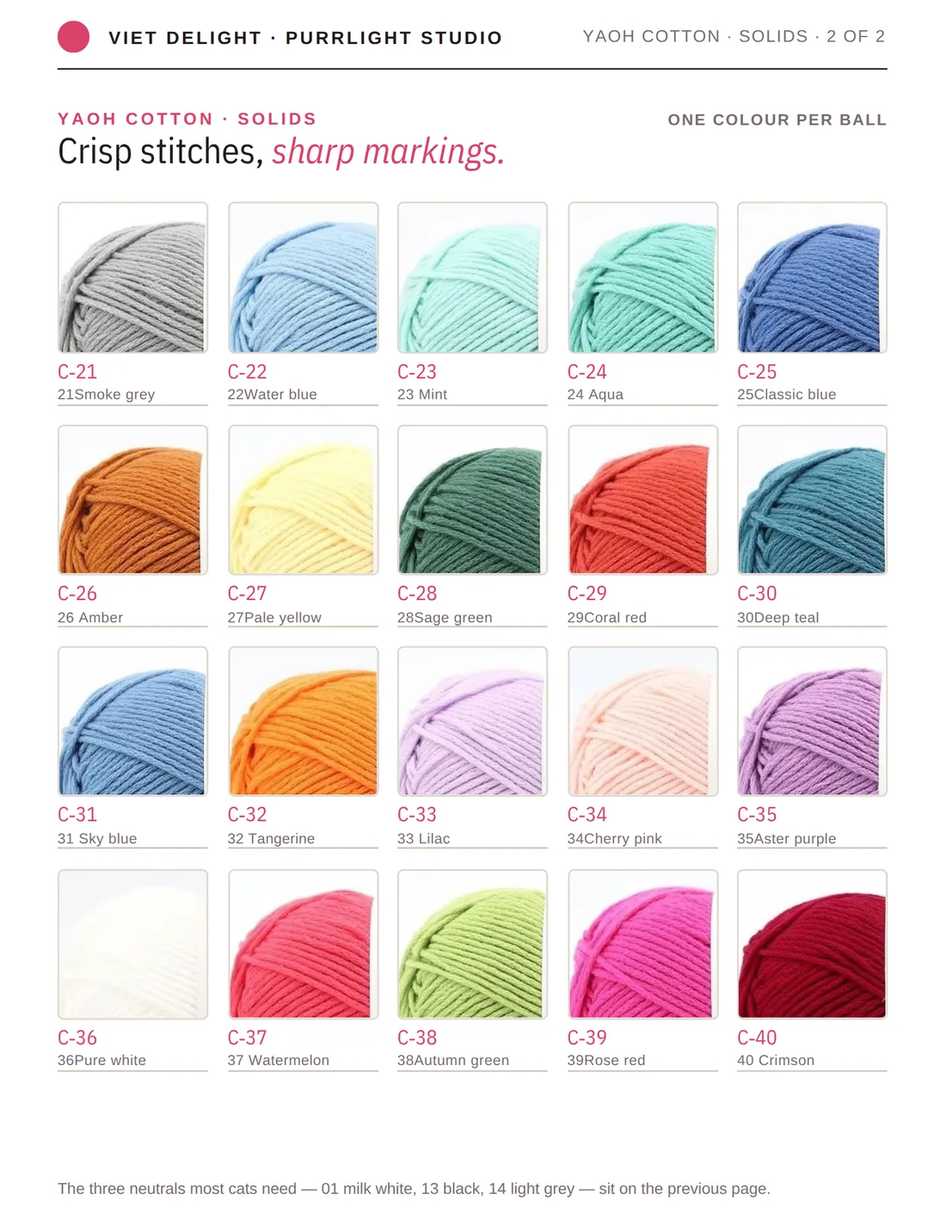
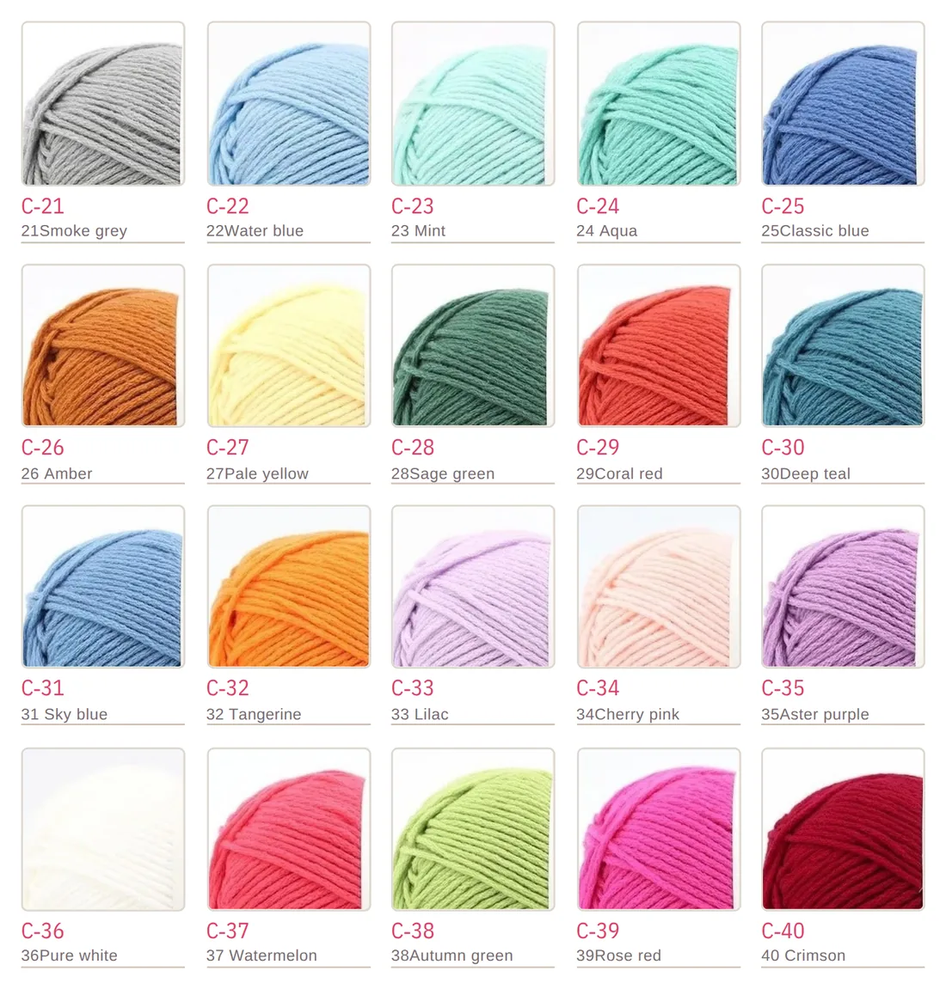
Custom Orders — sửa rà soát video + nội dung: LCP, độ trôi, xoay máy, link giữa trang, iPhone; trang len sạch; giao hàng theo mùa
- Video: khung nằm trọn trong ảnh (ảnh vẫn là LCP), nhận transform trôi ngay, đổi bản rộng khi xoay ngang,
  chỉ tạo khi ảnh đầu trang hiện (≥50%), gọi play() thẳng (iOS), mờ vào khi có khung thật
- Trang len: cắt chỉ còn lưới màu (bỏ COLOURS/overleaf/chữ lỗi/dòng hội chợ/"Baby pink"/ô trống) + 104 mã và tên dạng chữ
- Giao 2–3 tuần: theo công tắc mùa; tạm bỏ khỏi mục Giáng sinh (chờ Elise chốt hạn đặt)
- Chuông lắc khi chính chuông hiện đủ; bóng xanh = yếm sage của Merlin (#93A898)
- Tài liệu: câu hỏi cho Elise (hạn đặt, giao quanh năm?, FTC, tên V-03)

Claude-Session: https://claude.ai/code/session_01PLYG5TiggYTJU6oqvA7Biv

diff --git a/website/custom-orders/custom-orders.js b/website/custom-orders/custom-orders.js
@@ -671,7 +671,8 @@
       balanceRow.appendChild(el("span", { text: "Balance after you approve the photo" })); balanceRow.appendChild(el("span", { "class": "amt", text: db[1] }));
       if (fromUser) g.goneNote = "";
       var shipping = !est.digitalOnly && (v.getit === "ship" || v.getit === "out" || !GET_IT[v.getit]);
-      noteRow.textContent = [est.note, est.digitalOnly ? "" : (GET_IT[v.getit] || GET_IT.ship).short, shipping && !est.readyMade ? DELIVERY_NOTE : ""].filter(Boolean).join(" · ") + (g.goneNote ? " " + g.goneNote : "");
+      /* SEASONAL Christmas 2026: Elise gave the 2–3 weeks as the year-end holiday delay */
+      noteRow.textContent = [est.note, est.digitalOnly ? "" : (GET_IT[v.getit] || GET_IT.ship).short, shipping && !est.readyMade && christmas ? DELIVERY_NOTE : ""].filter(Boolean).join(" · ") + (g.goneNote ? " " + g.goneNote : "");
       copied.textContent = "";
       if (fromUser) store(storeKey, { v: v, swaps: g.swaps, u: 1, auto: g.auto || 0 });   /* a plain page view remembers nothing */
       if (g === current) setBarThumb(g);
@@ -1310,14 +1311,18 @@
     if ("ResizeObserver" in window) new ResizeObserver(fit).observe(band); else window.addEventListener("resize", fit);
     /* the bulbs run while the band shows; the snow while the canvas itself shows (on phones it sits well below the
        band's top) */
-    /* Merlin's bell swings once (about 1.4 s) the first time the band comes into view — not when paused, not on a
-       data-saver connection (Elise 16/10) */
-    var bellHang = band.querySelector(".xmas-hang"), rang = false, saver = navigator.connection && navigator.connection.saveData;
-    new IntersectionObserver(function (es) {
-      es.forEach(function (e) { bandOn = e.isIntersecting; });
-      if (bandOn && !rang && bellHang && !paused && !saver) { rang = true; bellHang.classList.add("ring"); }
-      snowing();
-    }).observe(band);
+    new IntersectionObserver(function (es) { es.forEach(function (e) { bandOn = e.isIntersecting; }); snowing(); }).observe(band);
+    /* Merlin's bell swings once (about 1.4 s) the first time the bell itself is fully in view — not when paused, not on
+       a data-saver connection (Elise 16/10) */
+    var bellHang = band.querySelector(".xmas-hang"), bellImg = bellHang && bellHang.querySelector(".xmas-bell"), saver = navigator.connection && navigator.connection.saveData;
+    if (bellImg && !saver) {
+      var bellSeen = new IntersectionObserver(function (es) {
+        es.forEach(function (e) {
+          if (e.isIntersecting && e.intersectionRatio >= 0.99 && !paused) { bellHang.classList.add("ring"); bellSeen.disconnect(); }
+        });
+      }, { threshold: 1 });
+      bellSeen.observe(bellImg);
+    }
     new IntersectionObserver(function (es) { es.forEach(function (e) { onScreen = e.isIntersecting; }); snowing(); }).observe(snow);
     document.addEventListener("visibilitychange", snowing);
     onStill(snowing);   /* reduced motion turned on mid-visit: the snow stops (the CSS hides the canvas and the button) */
@@ -1334,57 +1339,70 @@
   /* WebM (VP9) where it plays, else MP4 (H.264): between them every current browser */
   var heroType = !probe.canPlayType ? "" : probe.canPlayType('video/webm; codecs="vp9"') ? ".webm" : probe.canPlayType('video/mp4; codecs="avc1.640028"') ? ".mp4" : "";
   if (christmas && heroImg && heroBox && heroType && !calm && !(navigator.connection && navigator.connection.saveData) && "IntersectionObserver" in window) {
-    var heroWide = window.matchMedia("(min-width: 600px)"), heroOn = false, heroStopped = false, heroVideo = null, heroBtn = null;
+    var heroWide = window.matchMedia("(min-width: 600px)"), heroBg = window.matchMedia("(min-width: 900px)");   /* wide cut from 600px; the photo is a background (absolute) from 900px */
+    var heroOn = false, heroReady = false, heroStopped = false, heroVideo = null, heroBtn = null;
+    var heroFile = function () { return "../assets/video/" + (heroWide.matches ? "hero-merlin-960" : "hero-merlin-phone-640") + heroType; };
+    /* the video sits exactly on the photo's box — inside it, never a pixel larger (so the photo stays the page's
+       largest paint), and with the photo's own drift transform */
     var heroFit = function () {
       if (!heroVideo) return;
-      var b = heroBox.getBoundingClientRect(), r = (wideEnough() ? heroPic : heroImg).getBoundingClientRect();
-      heroVideo.style.left = Math.round(r.left - b.left) + "px"; heroVideo.style.top = Math.round(r.top - b.top) + "px";
-      heroVideo.style.width = Math.round(r.width) + "px"; heroVideo.style.height = Math.round(r.height) + "px";
+      var b = heroBox.getBoundingClientRect(), r = (heroBg.matches ? heroPic : heroImg).getBoundingClientRect();
+      var L = Math.ceil(r.left - b.left), T = Math.ceil(r.top - b.top);
+      heroVideo.style.left = L + "px"; heroVideo.style.top = T + "px";
+      heroVideo.style.width = Math.max(0, Math.floor(r.right - b.left) - L) + "px"; heroVideo.style.height = Math.max(0, Math.floor(r.bottom - b.top) - T) + "px";
+      heroVideo.style.transform = heroImg.style.transform;
     };
-    var wideEnough = function () { return window.matchMedia("(min-width: 900px)").matches; };   /* the photo is a background (absolute) from 900px */
     var heroLabel = function () {
       var playing = heroVideo && !heroVideo.paused && !heroVideo.ended;
       heroBtn.textContent = playing ? "Pause video" : "Play video";
       heroBtn.className = "hero-play" + (playing ? "" : " is-stopped");
     };
     var heroShow = function (on) { heroVideo.className = "hero-video" + (on ? " on" : ""); };
+    var heroPlay = function () {   /* play() buffers by itself (iOS waits for it before loading); a refusal leaves the photo and the button */
+      var p = heroVideo.play();
+      if (p && p.catch) p.catch(function () { heroShow(false); heroLabel(); });
+    };
     var heroStart = function () {
       heroVideo = document.createElement("video");
       heroVideo.className = "hero-video";
       heroVideo.muted = true; heroVideo.defaultMuted = true; heroVideo.setAttribute("muted", "");
       heroVideo.setAttribute("playsinline", ""); heroVideo.setAttribute("aria-hidden", "true"); heroVideo.setAttribute("tabindex", "-1");
       heroVideo.preload = "auto";
-      heroVideo.src = "../assets/video/" + (heroWide.matches ? "hero-merlin-960" : "hero-merlin-phone-640") + heroType;
+      heroVideo.src = heroFile();
       heroPic.parentNode.insertBefore(heroVideo, heroPic.nextSibling);
       heroImg.follower = heroVideo;
       heroBtn = document.createElement("button");
       heroBtn.type = "button";
       heroBox.appendChild(heroBtn);
       heroFit();
-      heroVideo.addEventListener("canplaythrough", function () { if (heroOn && !heroStopped && heroVideo.paused && !heroVideo.ended && heroVideo.currentTime === 0) heroPlay(); });
+      heroVideo.addEventListener("playing", function () { heroShow(true); heroLabel(); });   /* fade in on a real frame */
       heroVideo.addEventListener("ended", function () { heroShow(false); heroLabel(); });
       heroVideo.addEventListener("pause", heroLabel);
-      heroVideo.addEventListener("play", heroLabel);
       heroBtn.addEventListener("click", function () {
         if (heroVideo.paused || heroVideo.ended) { heroStopped = false; if (heroVideo.ended) heroVideo.currentTime = 0; heroPlay(); }
         else { heroStopped = true; heroVideo.pause(); }
       });
       heroLabel();
       if ("ResizeObserver" in window) new ResizeObserver(heroFit).observe(heroBox); else window.addEventListener("resize", heroFit);
+      /* a phone turned sideways (or a window widened past 600px) gets the wide cut; the 4:3 cut would show Merlin cropped */
+      var heroSwap = function () {
+        if (!heroWide.matches || heroVideo.src.indexOf("phone-640") < 0) return;
+        heroStopped = true; heroVideo.pause(); heroShow(false);
+        heroVideo.src = heroFile(); heroVideo.load(); heroLabel();
+      };
+      if (heroWide.addEventListener) heroWide.addEventListener("change", heroSwap); else if (heroWide.addListener) heroWide.addListener(heroSwap);
       onStill(function () { if (still.matches) { heroStopped = true; heroVideo.pause(); heroShow(false); } });
+      if (heroOn) heroPlay();
     };
-    var heroPlay = function () {
-      heroShow(true);
-      var p = heroVideo.play();
-      if (p && p.catch) p.catch(function () { heroShow(false); heroLabel(); });   /* autoplay refused: the photo stays, the button can start it */
-    };
+    /* the photo itself is watched (half of it in view), not the whole hero: on a landscape phone the words fill the
+       first screen and the photo is below them */
     new IntersectionObserver(function (es) {
       es.forEach(function (e) { heroOn = e.isIntersecting; });
-      if (!heroVideo) return;
-      if (!heroOn && !heroVideo.paused) heroVideo.pause();                       /* scrolled away: hold */
-      else if (heroOn && heroVideo.paused && !heroVideo.ended && !heroStopped && heroVideo.currentTime > 0) heroPlay();   /* back: carry on */
-    }, { threshold: 0.25 }).observe(heroBox);
-    var heroLater = function () { setTimeout(function () { if (!heroVideo) heroStart(); }, 600); };
+      if (!heroVideo) { if (heroReady && heroOn) heroStart(); return; }   /* first view after load, wherever it happens */
+      if (!heroOn && !heroVideo.paused) heroVideo.pause();                                   /* scrolled away: hold */
+      else if (heroOn && heroVideo.paused && !heroVideo.ended && !heroStopped) heroPlay();   /* back (or first time): play */
+    }, { threshold: 0.5 }).observe(heroImg);
+    var heroLater = function () { setTimeout(function () { heroReady = true; if (!heroVideo && heroOn) heroStart(); }, 600); };
     if (document.readyState === "complete") heroLater(); else window.addEventListener("load", heroLater);
   }
 })();

diff --git a/website/custom-orders/index.html b/website/custom-orders/index.html
@@ -197,13 +197,22 @@
                 <summary>See every yarn color</summary>
                 <p class="step-hint">Find the shade that looks like your pet and write its code (for example C-25 or V-04) in your order. Printed colors can't match yarn exactly.</p>
                 <ul class="yarn-pages" tabindex="0" aria-label="Yarn color book pages">
-                  <li><a href="../assets/img/custom/yarn-book-cotton-1.webp" target="_blank" rel="noopener"><img src="../assets/img/custom/yarn-book-cotton-1.webp" alt="Cotton yarn color book page: solid shades C-01 to C-20, each with its code and name" width="1100" height="1432" loading="lazy" decoding="async"></a><span class="yarn-cap">Cotton · solids 1 of 2</span></li>
-                  <li><a href="../assets/img/custom/yarn-book-cotton-2.webp" target="_blank" rel="noopener"><img src="../assets/img/custom/yarn-book-cotton-2.webp" alt="Cotton yarn color book page: solid shades C-21 to C-40, each with its code and name" width="1100" height="1432" loading="lazy" decoding="async"></a><span class="yarn-cap">Cotton · solids 2 of 2</span></li>
-                  <li><a href="../assets/img/custom/yarn-book-cotton-mixes.webp" target="_blank" rel="noopener"><img src="../assets/img/custom/yarn-book-cotton-mixes.webp" alt="Cotton yarn color book page: multi-shade mixes M-01 to M-21, each with its code and name" width="1100" height="1432" loading="lazy" decoding="async"></a><span class="yarn-cap">Cotton · mixes</span></li>
-                  <li><a href="../assets/img/custom/yarn-book-velvet-1.webp" target="_blank" rel="noopener"><img src="../assets/img/custom/yarn-book-velvet-1.webp" alt="Velvet yarn color book page: shades V-01 to V-20, each with its code and name" width="1100" height="1432" loading="lazy" decoding="async"></a><span class="yarn-cap">Velvet 1 of 2</span></li>
-                  <li><a href="../assets/img/custom/yarn-book-velvet-2.webp" target="_blank" rel="noopener"><img src="../assets/img/custom/yarn-book-velvet-2.webp" alt="Velvet yarn color book page: shades V-21 to V-39, each with its code and name" width="1100" height="1432" loading="lazy" decoding="async"></a><span class="yarn-cap">Velvet 2 of 2</span></li>
-                  <li><a href="../assets/img/custom/yarn-book-fluffy.webp" target="_blank" rel="noopener"><img src="../assets/img/custom/yarn-book-fluffy.webp" alt="Fluffy rabbit-fur yarn color book page: four shades R-01 to R-04 — pastel yellow, silver grey, cream white, taupe" width="1100" height="1432" loading="lazy" decoding="async"></a><span class="yarn-cap">Fluffy</span></li>
+                  <li><a href="../assets/img/custom/yarn-book-cotton-1.webp" target="_blank" rel="noopener"><img src="../assets/img/custom/yarn-book-cotton-1.webp" alt="Yarn color book page: Cotton solid colors C-01 to C-20, each swatch with its code and name (listed as text below)" width="1100" height="1151" loading="lazy" decoding="async"></a><span class="yarn-cap">Cotton · solids 1 of 2</span></li>
+                  <li><a href="../assets/img/custom/yarn-book-cotton-2.webp" target="_blank" rel="noopener"><img src="../assets/img/custom/yarn-book-cotton-2.webp" alt="Yarn color book page: Cotton solid colors C-21 to C-40, each swatch with its code and name (listed as text below)" width="1100" height="1151" loading="lazy" decoding="async"></a><span class="yarn-cap">Cotton · solids 2 of 2</span></li>
+                  <li><a href="../assets/img/custom/yarn-book-cotton-mixes.webp" target="_blank" rel="noopener"><img src="../assets/img/custom/yarn-book-cotton-mixes.webp" alt="Yarn color book page: Cotton multi-shade mixes M-01 to M-21, each swatch with its code and name (listed as text below)" width="1100" height="1038" loading="lazy" decoding="async"></a><span class="yarn-cap">Cotton · mixes</span></li>
+                  <li><a href="../assets/img/custom/yarn-book-velvet-1.webp" target="_blank" rel="noopener"><img src="../assets/img/custom/yarn-book-velvet-1.webp" alt="Yarn color book page: Velvet colors V-01 to V-20, each swatch with its code and name (listed as text below)" width="1100" height="1151" loading="lazy" decoding="async"></a><span class="yarn-cap">Velvet 1 of 2</span></li>
+                  <li><a href="../assets/img/custom/yarn-book-velvet-2.webp" target="_blank" rel="noopener"><img src="../assets/img/custom/yarn-book-velvet-2.webp" alt="Yarn color book page: Velvet colors V-21 to V-39, each swatch with its code and name (listed as text below)" width="1100" height="1173" loading="lazy" decoding="async"></a><span class="yarn-cap">Velvet 2 of 2</span></li>
+                  <li><a href="../assets/img/custom/yarn-book-fluffy.webp" target="_blank" rel="noopener"><img src="../assets/img/custom/yarn-book-fluffy.webp" alt="Yarn color book page: Fluffy colors R-01 to R-04, each swatch with its code and name (listed as text below)" width="1100" height="1087" loading="lazy" decoding="async"></a><span class="yarn-cap">Fluffy</span></li>
                 </ul>
+                <details class="yarn-names">
+                  <summary>Codes and names as text</summary>
+                  <p><strong>Cotton · solids 1 of 2:</strong> C-01 Milk white · C-02 Pale pink · C-03 Dusty pink · C-04 True red · C-05 Roman red · C-06 Autumn gold · C-07 Pea green · C-08 Camel beige · C-09 Dark coffee · C-10 Warm grey · C-11 Charcoal · C-12 Navy · C-13 Black · C-14 Light grey · C-15 Egg yolk · C-16 Mulberry · C-17 Ice blue · C-18 Moss green · C-19 Orange red · C-20 Denim blue</p>
+                  <p><strong>Cotton · solids 2 of 2:</strong> C-21 Smoke grey · C-22 Water blue · C-23 Mint · C-24 Aqua · C-25 Classic blue · C-26 Amber · C-27 Pale yellow · C-28 Sage green · C-29 Coral red · C-30 Deep teal · C-31 Sky blue · C-32 Tangerine · C-33 Lilac · C-34 Cherry pink · C-35 Aster purple · C-36 Pure white · C-37 Watermelon · C-38 Autumn green · C-39 Rose red · C-40 Crimson</p>
+                  <p><strong>Cotton · mixes:</strong> M-01 Mint mix · M-02 Butter yellow mix · M-03 Lavender mix · M-04 Coral pink mix · M-05 Plum mix · M-06 Candy pastel · M-07 Meadow green · M-08 Macaron rainbow · M-09 Blue enamel · M-10 Macaron red · M-11 Starry blue · M-12 Country green · M-13 Aged wine · M-14 Country pink · M-15 Dust grey · M-16 Winter grey · M-17 Phantom blue · M-18 Ocean blue · M-19 Paris night · M-20 Korean red · M-21 Lantern red</p>
+                  <p><strong>Velvet 1 of 2:</strong> V-01 White · V-02 Lime cream · V-03 · V-04 Ivory · V-05 Grey · V-06 Sky blue · V-07 Mint · V-08 Dusty rose · V-09 Oat · V-10 Coral · V-11 Pink · V-12 Periwinkle · V-13 Lavender · V-14 Mauve · V-15 Royal blue · V-16 Teal · V-17 Yellow · V-18 Red · V-19 Camel · V-20 Brown</p>
+                  <p><strong>Velvet 2 of 2:</strong> V-21 Navy · V-22 Black · V-23 Blue mix · V-24 Pink mix · V-25 Charcoal · V-26 Iceblue mix · V-27 Mustard · V-28 Cream · V-29 Sand · V-30 Burgundy · V-31 Lime green · V-32 Orange · V-33 Pale mint · V-34 Olive · V-35 Raspberry · V-36 Hot pink · V-37 Lilac · V-38 Snowball · Speckled white · V-39 Chim Ruyi · White pink</p>
+                  <p><strong>Fluffy:</strong> R-01 Pastel yellow · R-02 Silver grey · R-03 Cream white · R-04 Taupe</p>
+                </details>
               </details>
             </fieldset>
             <fieldset class="step">
@@ -583,7 +592,7 @@
           <li><span class="step-num" aria-hidden="true">1</span><p><strong>Send your photos.</strong> Face, full body, and any detail you want captured.</p></li>
           <li><span class="step-num" aria-hidden="true">2</span><p><strong>Pay a 50% deposit.</strong> For every made-to-order or custom piece, we send you a design mockup before we start.</p></li>
           <li><span class="step-num" aria-hidden="true">3</span><p><strong>We make it.</strong> We let you know when your piece is in the works, and can send you a progress update after about a week.</p></li>
-          <li><span class="step-num" aria-hidden="true">4</span><p><strong>Approve &amp; receive.</strong> We send you a photo of the finished piece. Pay the balance, then it ships free in the U.S. (delivery takes 2–3 weeks after it's finished) — or pick it up at Pearland Town Center.</p></li>
+          <li><span class="step-num" aria-hidden="true">4</span><p><strong>Approve &amp; receive.</strong> We send you a photo of the finished piece. Pay the balance, then it ships free in the U.S.<span class="xmas-only"> (delivery takes 2–3 weeks after it's finished)</span> — or pick it up at Pearland Town Center.</p></li>
         </ol>
       </div>
     </section>
@@ -630,7 +639,7 @@
           <div><dt>Paintings, calendars &amp; gift boxes — order by</dt><dd><strong><time datetime="2026-11-15">Sun, Nov 15</time></strong></dd></div>
         </dl>
         <p class="xmas-after">Orders placed after these dates will be delivered in 2027.</p>
-        <p class="xmas-note">Orders placed by these dates: allow 2–4 weeks (the Christening gown set ships in 2–3 days). Most pieces are made to order — order <span class="hand">early</span> to secure your spot. Delivery takes 2–3 weeks after your piece is finished: Thanksgiving and Christmas slow holiday shipping.</p>
+        <p class="xmas-note">Orders placed by these dates: allow 2–4 weeks (the Christening gown set ships in 2–3 days). Most pieces are made to order — order <span class="hand">early</span> to secure your spot.</p>
         </div>
       </div>
       <picture class="xmas-pic">

diff --git a/website/custom-orders/custom-orders.css b/website/custom-orders/custom-orders.css
@@ -20,6 +20,7 @@
   --butter-soft: #FAEFD8;  /* Christmas band */
   --glow-soft: #F6DCC4;    /* selected chip / table cell fill — Ink on it 7.7:1 */
   --beret: #CA8D41;        /* Merlin's beret (Brand Canon v2) — only in the small lights, never for text */
+  --bib-sage: #93A898;     /* Merlin's bib (Brand Canon v2.1) — only the green Christmas bulb */
   --line: rgba(74, 66, 59, 0.18);   /* Ink hairline */
   --line-soft: rgba(74, 66, 59, 0.10);
   --line-ui: rgba(74, 66, 59, 0.6);   /* control boundaries ≥3:1 on cream (WCAG 1.4.11) */
@@ -303,6 +304,11 @@ p { margin: 0; }
 .yarn-pages a:focus-visible { outline: 3px solid var(--ink); outline-offset: 2px; }
 .yarn-pages img { display: block; width: 100%; height: auto; }
 .yarn-cap { font-size: 13px; color: var(--caption); }
+/* every code and name as text — for screen readers, and to read without zooming into the pages */
+.yarn-names { margin-top: 6px; }
+.yarn-names summary { cursor: pointer; font-size: 14px; font-weight: 500; color: var(--berry); min-height: 44px; display: inline-flex; align-items: center; }
+.yarn-names summary:hover { color: var(--ink); }
+.yarn-names p { margin: 0 0 10px; font-size: 14px; line-height: 1.6; color: var(--ink); }
 @media (min-width: 600px) { .yarn-pages { grid-auto-columns: 44%; } }
 @media (min-width: 900px) { .yarn-pages { grid-auto-flow: row; grid-template-columns: repeat(3, minmax(0, 1fr)); margin: 0; padding: 0; overflow: visible; } }
 .price-table { border-collapse: collapse; width: 100%; table-layout: fixed; font-size: 15px; margin-top: 4px; }
@@ -643,7 +649,7 @@ body.has-bar { padding-bottom: 88px; }
    the photo. The wire is one 360px tile with three uneven swags; custom-orders.js hangs one bulb per 72px and each of
    the five bulbs in a tile sits on the wire (--y) with its own small tilt (--r). The wire starts one tile left of the
    text column (--xl), so the bell always hangs from the same point of the wire, above "Christmas". ===== */
-html:not([data-season="christmas"]) .christmas, html:not([data-season="christmas"]) .idea-badge-xmas, html:not([data-season="christmas"]) .xmas-bough { display: none; }   /* the one switch */
+html:not([data-season="christmas"]) .christmas, html:not([data-season="christmas"]) .idea-badge-xmas, html:not([data-season="christmas"]) .xmas-bough, html:not([data-season="christmas"]) .xmas-only { display: none; }   /* the one switch */
 .christmas { --xl: calc(max(0px, (100% - 640px) / 2) + var(--gutter)); }   /* left edge of .xmas-inner's text */
 @media (min-width: 900px) { .christmas { --xl: calc(max(0px, (100% - var(--wrap)) / 2) + var(--gutter)); } }
 .xmas-lights { position: absolute; top: 0; left: calc(var(--xl) - 360px); right: 0; z-index: 2; height: 60px; display: flex; align-items: flex-start; overflow: hidden; pointer-events: none;
@@ -668,9 +674,9 @@ html:not([data-season="christmas"]) .christmas, html:not([data-season="christmas
 .xmas-hang::before { content: ""; position: absolute; left: -0.5px; top: 0; width: 1px; height: calc(var(--thread) + var(--h) * 0.15); background: rgba(74, 66, 59, 0.55); }
 .xmas-bell { position: absolute; left: 0; top: var(--thread); width: auto; height: var(--h); max-width: none; transform: translateX(-57%); }
 @media (min-width: 900px) { .xmas-hang { --h: 40px; --thread: 22px; } }
-/* one red and one green bulb in every five (Elise 16/10): berry beside the bell, a pine green two bulbs on */
+/* one red and one green bulb in every five (Elise 16/10): berry beside the bell, Merlin's bib sage two bulbs on */
 .xmas-lights i:nth-child(5n+3)::after { background: var(--berry); border-color: rgba(142, 27, 58, 0.6); box-shadow: 0 0 5px 2px rgba(180, 34, 73, 0.3), 0 0 14px 5px rgba(180, 34, 73, 0.28); }
-.xmas-lights i:nth-child(5n)::after { background: #6E8B5F; border-color: rgba(78, 99, 70, 0.7); box-shadow: 0 0 5px 2px rgba(110, 139, 95, 0.35), 0 0 14px 5px rgba(78, 99, 70, 0.28); }
+.xmas-lights i:nth-child(5n)::after { background: var(--bib-sage); border-color: rgba(78, 99, 70, 0.7); box-shadow: 0 0 5px 2px rgba(147, 168, 152, 0.4), 0 0 14px 5px rgba(78, 99, 70, 0.28); }
 /* the bell swings once when the band first comes into view (custom-orders.js adds .ring) */
 @keyframes co-ring { 0% { transform: rotate(0); } 18% { transform: rotate(10deg); } 40% { transform: rotate(-7deg); } 62% { transform: rotate(4deg); } 82% { transform: rotate(-1.5deg); } 100% { transform: rotate(0); } }
 @media (prefers-reduced-motion: no-preference) { html.motion .christmas:not(.is-paused) .xmas-hang.ring { animation: co-ring 1.4s ease-out 1 both; transform-origin: 0 0; } }

diff --git a/docs/PURRLIGHT-WEBSITE-TONG-HOP.md b/docs/PURRLIGHT-WEBSITE-TONG-HOP.md
@@ -990,12 +990,32 @@ kỹ thuật) → chọn hướng tối giản + ghép ý hay:
 - **Video Merlin** (Gemini, chị gửi): ảnh đầu trang chuyển thành video 10 giây, phát 1 lần, không tiếng, có nút
   dừng/phát lại; khung đầu khớp ảnh nên chuyển liền mạch; nhẹ 260–470 KB (bản gốc 2,9 MB); theo công tắc mùa.
 
+Rà soát (video + nội dung, có phản biện) — 14 lỗi xác nhận, đã sửa: video có thể thành "ảnh lớn nhất" (LCP) vì to
+hơn ảnh 0,4px → khung video nằm trọn trong khung ảnh; video chưa nhận độ "trôi" của ảnh lúc bắt đầu (Merlin co lại
+khi chuyển) → copy ngay; xoay điện thoại sang ngang giữ bản 4:3 → đổi sang bản rộng; vào trang bằng link giữa trang
+(#pet-crochet) thì video tải mà không bao giờ phát → chỉ tạo khi ảnh đầu trang hiện; iPhone có thể không tự phát vì
+chờ "canplaythrough" → gọi play() thẳng; video theo dõi cả phần đầu trang (điện thoại ngang phát khi ảnh chưa hiện)
+→ theo dõi chính ảnh. Trang len: trang Fluffy có chữ lỗi ("Onlyfourfornow", câu lặp, "ndash;"), "Baby pink" (từ cấm),
+"COLOURS" kiểu Anh, dòng chỉ dành cho hội chợ ("the ball is on the table, ask"), "overleaf", ô trống → **cắt chỉ còn
+lưới màu**, xoá tên V-03 (chờ chị đặt tên mới), xoá ô trống; thêm **danh sách mã + tên dạng chữ** (104 màu) cho trình
+đọc màn hình. Câu giao hàng 2–3 tuần **theo công tắc mùa** (chị nói do mùa lễ) và **tạm bỏ khỏi mục Giáng sinh** vì
+cộng với "2–4 tuần" thì đơn 15/11 có thể tới 3/1/2027, trái với "đặt sau các ngày này mới giao năm 2027" — chờ chị
+chốt. Chuông lắc khi chính chuông hiện đủ; bóng xanh đổi sang màu yếm sage của Merlin (#93A898, có trong Brand Canon).
+
 ### Còn chờ chị
-1. Hạn đặt Giáng sinh: CN 8/11 + làm 2–4 tuần + giao 2–3 tuần → chậm nhất ~27/12 (sau Giáng sinh). "2–4 tuần" là
-   thời gian làm hay đã gồm cả giao? Có cần dời hạn sớm hơn không?
-2. Nhận tại Pearland (pickup): cũng cần 2–3 tuần sau khi làm xong (hàng từ Việt Nam) không?
-3. Video Merlin có tiếng nói không? Nếu chị muốn bật tiếng, gửi em lời thoại để làm phụ đề.
-4. Sau mùa lễ: thay ảnh hero (mục Giáng sinh + video tự ẩn từ 2/1/2027).
+1. **Hạn đặt Giáng sinh** — theo số trên trang: CN 8/11 + làm tối đa 4 tuần + giao tối đa 3 tuần → ~27/12 (sau Giáng
+   sinh); CN 15/11 → ~3/1/2027 (trái với câu "Orders placed after these dates will be delivered in 2027"). Chị chọn:
+   (a) "2–4 tuần" đã gồm cả giao → trang ghi rõ "allow 2–4 weeks in all"; hoặc (b) đó là thời gian làm → dời hạn đặt
+   sớm hơn (giao trước Giáng sinh cần ~5/11; giao trong năm 2026 cần ~12/11 cho tranh/lịch/hộp quà).
+2. Giao 2–3 tuần sau khi làm xong: chỉ mùa lễ hay **quanh năm**? (trang đang để theo mùa, tự ẩn từ 2/1/2027).
+3. Nhận tại Pearland (pickup): cũng cần 2–3 tuần sau khi làm xong (hàng từ Việt Nam) không?
+4. **FTC (16 CFR 435, xem 8j):** các dòng "Turnaround: from 2 weeks" chưa ghi hạn gửi hàng → chị đặt N cho "ships
+   within N" từng món.
+5. Tên mới cho màu len **V-03** (velvet, hồng nhạt — tên cũ "Baby pink" có từ cấm). Các tên chị xem lại: V-26
+   "Iceblue mix" (= "Ice blue mix"?), V-38 "Snowball · Speckled white", V-39 "Chim Ruyi · White pink" (bỏ tên nhà cung
+   cấp?). Trang Fluffy ghi "thêm khoảng 2 tuần làm" — trang web chưa đưa, chị xác nhận nếu muốn ghi.
+6. Video Merlin có tiếng nói không? Nếu chị muốn bật tiếng, gửi em lời thoại để làm phụ đề.
+7. Sau mùa lễ: thay ảnh hero (mục Giáng sinh + video tự ẩn từ 2/1/2027).
 
 ## 9. Link & tài nguyên
 

diff --git a/website/README.md b/website/README.md
@@ -272,8 +272,10 @@ giá Fluffy trên trang), **không gắn link catalog** (các trang giá lệch 
 Crochet: "See every yarn color" (đóng sẵn, ảnh chỉ tải khi mở; mỗi trang mở cỡ lớn để đọc mã), khách ghi mã màu (vd.
 C-25, V-04) trong đơn. Ảnh: `assets/img/custom/yarn-book-*.webp` (render 2x từ trang Canva, cắt bỏ thanh công cụ).
 (3) **Thời gian giao**: "delivery takes 2–3 weeks after it's finished" (chị: Thanksgiving, Christmas làm vận chuyển
-chậm) — trong "How it works" bước 4, ghi chú mục Giáng sinh, và dòng ghi chú trong hộp "What's inside" khi chọn ship
-(không hiện khi nhận tại chỗ, file digital, bộ váy làm sẵn). Câu "allow 2–4 weeks" (thời gian làm, chị chốt 16/10) giữ
+chậm) — trong "How it works" bước 4 (`.xmas-only`) và dòng ghi chú trong hộp "What's inside" khi chọn ship (không hiện
+khi nhận tại chỗ, file digital, bộ váy làm sẵn); **theo công tắc mùa**; tạm không ghi trong mục Giáng sinh (chờ chị chốt
+hạn đặt, xem TONG-HOP "Còn chờ chị" 1). Trang len đã cắt chỉ còn lưới màu (bỏ chữ "COLOURS", "overleaf", chữ lỗi trang
+Fluffy, dòng hội chợ, tên "Baby pink" của V-03, ô trống) + danh sách mã và tên dạng chữ ("Codes and names as text"). Câu "allow 2–4 weeks" (thời gian làm, chị chốt 16/10) giữ
 nguyên. (4) **Video Merlin** (`assets/video/hero-merlin-960.{webm,mp4}` + bản điện thoại 4:3
 `hero-merlin-phone-640.*`, 260–470 KB): ảnh đầu trang "sống dậy" — khung đầu = ảnh hero (đã chỉnh tông khớp ảnh), phát
 **1 lần** 10 giây, **không tiếng** (âm thanh gốc bỏ), rồi mờ về ảnh; nút "Pause video" / "Play video"; chỉ chạy sau
